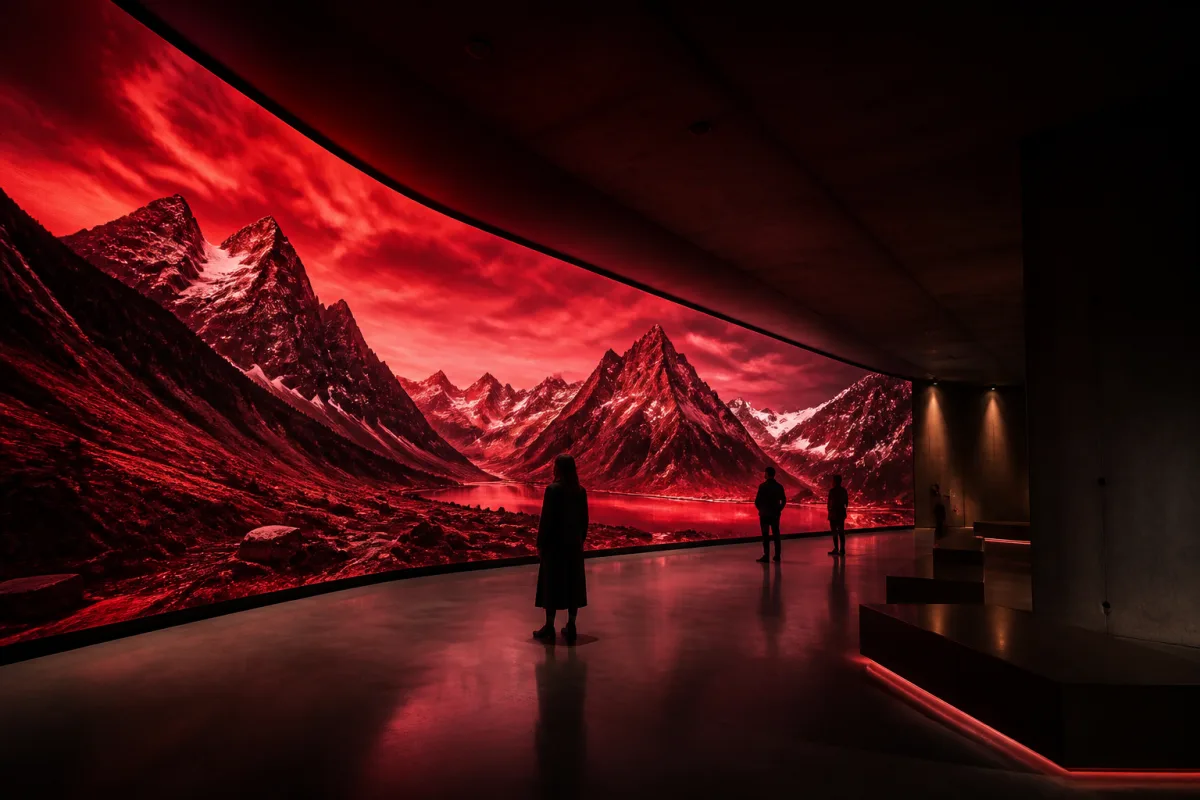
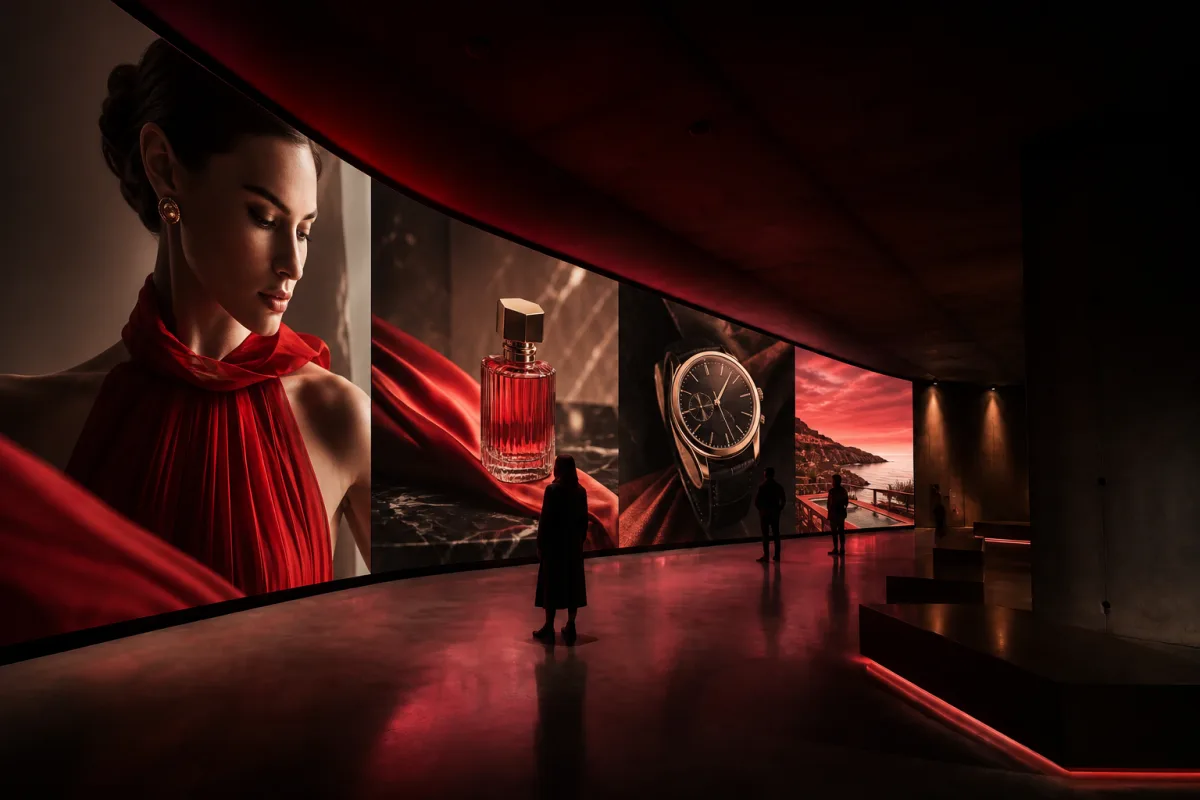
Refine solution display campaigns

diff --git a/src/styles.css b/src/styles.css
@@ -1400,18 +1400,6 @@ button {
   transition: background-position 0.2s ease;
 }
 
-.solution-result__stage > span {
-  position: absolute;
-  z-index: 4;
-  top: 14px;
-  right: 0;
-  color: rgba(255, 255, 255, 0.32);
-  font-size: 9px;
-  font-weight: 800;
-  letter-spacing: 0.18em;
-  text-transform: uppercase;
-}
-
 .solution-result__photo {
   position: absolute;
   z-index: 0;

diff --git a/index.html b/index.html
@@ -485,7 +485,6 @@
               data-solution-photo
             >
             <canvas class="solution-result__canvas"></canvas>
-            <span>Raumreaktion</span>
           </div>
           <div class="solution-result__copy" data-solution-copy>
             <div class="solution-result__label" data-solution-label>Retail Experience</div>
